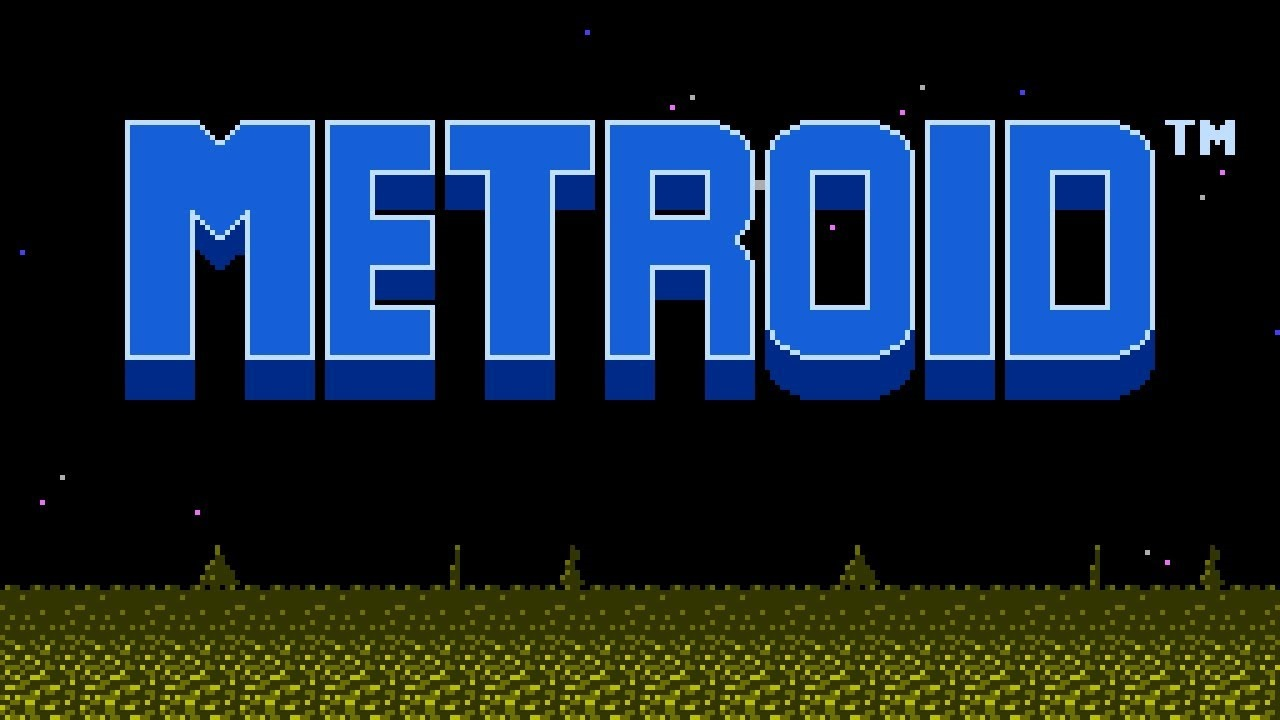
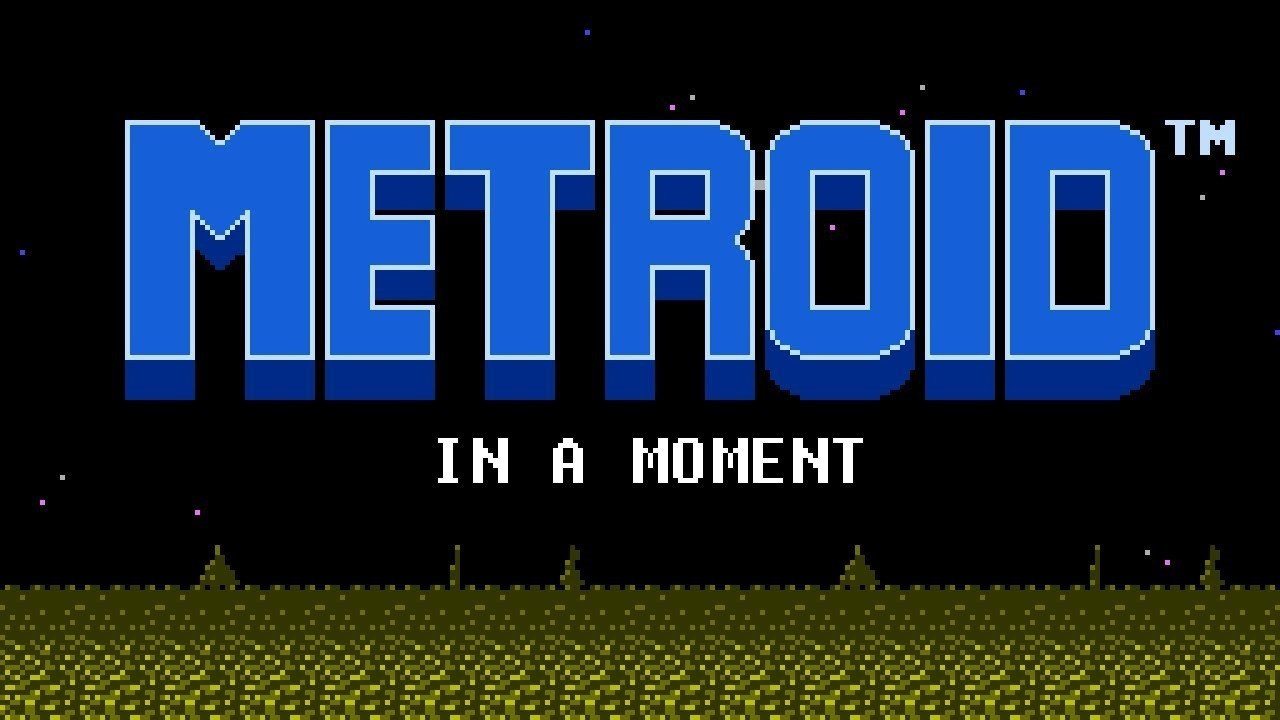
Added the CSS for metroid, and changed a little HTML

Changed region(s): [[0.3438, 0.6111, 0.6875, 0.6722]]

diff --git a/index.html b/index.html
@@ -3,12 +3,13 @@
     <head>
         <title>METROID in a Moment</title>
         <link rel="icon" href="img/favicon.ico">
+        <link rel="stylesheet" href="https://fonts.googleapis.com/css2?family=Press+Start+2P&display=swap">
+        <link rel="stylesheet" type="text/css" href="css/metroid.css">
     </head>
     <body>
         <!-- Header Element -->
         <header>
             <img src="img/metroid.jpeg">
-            <h1>IN A MOMENT</h1>
             <p>Written by Jake Flynn <a href="https://github.com/C0lr3ss" target="_blank" title="My Github Profile!">(C0lr3ss)</a>,
                 &copy; Nintendo
             </p>
@@ -25,7 +26,7 @@
                 NES classic.
             </p>
             <img src="img/metroid-cart.jpg">
-            <p>A physical copy of METROID (1986) for NES</p>
+            <p class="caption">A physical copy of METROID (1986) for NES</p>
             <h2>The Story</h2>
             <p>In the year 20X5 of the Cosmic Calendar, a space-fairing vessel travelling from the planet SR388 was attacked and seized by
                 a devious gang of mercenaries known as the Space Pirates. After seizing the craft, the Pirates took it to their secret base
@@ -47,9 +48,9 @@
                 <li>They were created as a method of controlling another native parasitic species known as the X.</li>
             </ul>
             <img src="img/metroid-creature.jpeg">
-            <p>A METROID, as seen on Zebes</p>
+            <p class="caption">A METROID, as seen on Zebes</p>
             <img src="img/chozo-smallsquare.jpg">
-            <p>A member of the Chozo race</p>
+            <p class="caption">A member of the Chozo race</p>
             <!-- Samus Info -->
             <h2>Samus Aran</h2>
             <p>Samus Aran was born on the planet K-2L. She lived there with her parents, Virginia and Rodney Aran, until the age of 6. It was
@@ -61,9 +62,9 @@
                 she left the Federation to pursue bounties across the galaxy, hoping to never take direct orders again.
             </p>
             <img src="img/samus-smallersquare.jpg">
-            <p>Samus, as depicted both in and out of her iconic powersuit</p>
+            <p class="caption">Samus, as depicted both in and out of her iconic powersuit</p>
             <img src="img/samus-figure-smallsquare.jpg">
-            <p>A figure of Samus in action!</p>
+            <p class="caption">A figure of Samus in action!</p>
             <!-- Pirate Info -->
             <h2>The Pirates</h2>
             <p>Most of the Space Pirates are native Zebesians, and they are merely underlings. However, some highly-ranked Pirates of note
@@ -78,7 +79,7 @@
                 before journeying deeper into Zebes' tunnels.
             </p>
             <img src="img/kraid-small.jpg">
-            <p>Kraid, as depicted in the game METROID: Zero Mission</p>
+            <p class="caption">Kraid, as depicted in the game METROID: Zero Mission</p>
             <h3>Ridley</h3>
             <p>This sadistic space dragon is the second Space Pirate general that Samus encounters on Zebes. As mentioned before, Samus has
                 had a torturous past with this demon of the cosmos, as she witnessed her entire family vanquished by Ridley and his
@@ -88,7 +89,7 @@
                 of her arch-nemesis...
             </p>
             <img src="img/ridley-small.jpg">
-            <p>Ridley, as depicted in the game METROID: Zero Mission</p>
+            <p class="caption">Ridley, as depicted in the game METROID: Zero Mission</p>
             <h3>Mother Brain</h3>
             <p>A Chozo AI turned rogue, this mechanical monstrosity betrayed the remaining Chozo on Zebes and instead became the supreme
                 leader of the Space Pirates. Before Samus' infiltration, her base was riddled with the very METROIDS she helped the Chozo
@@ -97,7 +98,7 @@
                 escaping the self-destruct sequence set by Mother Brain herself.
             </p>
             <img src="img/mother-brain-smallsquare.jpg">
-            <p>Mother Brain, as depicted in the game METROID: Zero Mission</p>
+            <p class="caption">Mother Brain, as depicted in the game METROID: Zero Mission</p>
             <!-- Ending Message -->
             <h2>The End</h2>
             <p>At the end of METROID (1986), satisfied with a job well done (and a base well destroyed), Samus journeys out into the cosmos
@@ -132,7 +133,7 @@
         <!-- Footer Element -->
         <footer>
             <p>This website was created during a <a href="https://taptapkaboom.com" target="_blank" title="Rich Armstrong's Website">
-                Tap Tap Kaboom</a> Skillshare Class, led by Rich Armstrong.<br>All properties above &copy; Nintendo (1986-2021)
+                Tap Tap Kaboom</a> Skillshare Class, led by Rich Armstrong<br>All properties above &copy; Nintendo (1986-2021)
             </p>
         </footer>
     </body>

diff --git a/css/metroid.css b/css/metroid.css
@@ -1,0 +1,64 @@
+body{
+    background-color: slategray;
+    margin: 0;
+    font-family: 'Courier New', Courier, monospace;
+    font-weight: bold;
+    line-height: 20px;
+}
+header{
+    background-color: slategray;
+    text-align: center;
+}
+h2, h3{
+    font-family: 'Press Start 2P', 'Courier New', Courier, monospace;
+}
+header p{
+    color: white;
+}
+header img{
+    width: 1550px;
+    height: 700px;
+    border: 4px solid black;
+    border-radius: 50px;
+}
+main{
+    background-color: black;
+    border: 4px solid darkslategray;
+    border-radius: 20px;
+    max-width: 1050px;
+    margin: 0 auto;
+    padding: 20px 30px;
+}
+a{
+    color: blue;
+}
+a:hover{
+    color: skyblue;
+}
+h2{
+    color: red;
+    margin: 40px 0px 10px;
+}
+h3{
+    color: red;
+}
+main p{
+    color: lime;
+    text-align: justify;
+}
+main ul{
+    color: lime;
+}
+main img{
+    border: 2px solid white;  
+}
+p.caption{
+    color: skyblue;
+    font-style: italic;
+    margin-top: 0px;
+}
+footer{
+    text-align: center;
+    color: white;
+    padding: 20px;
+}
